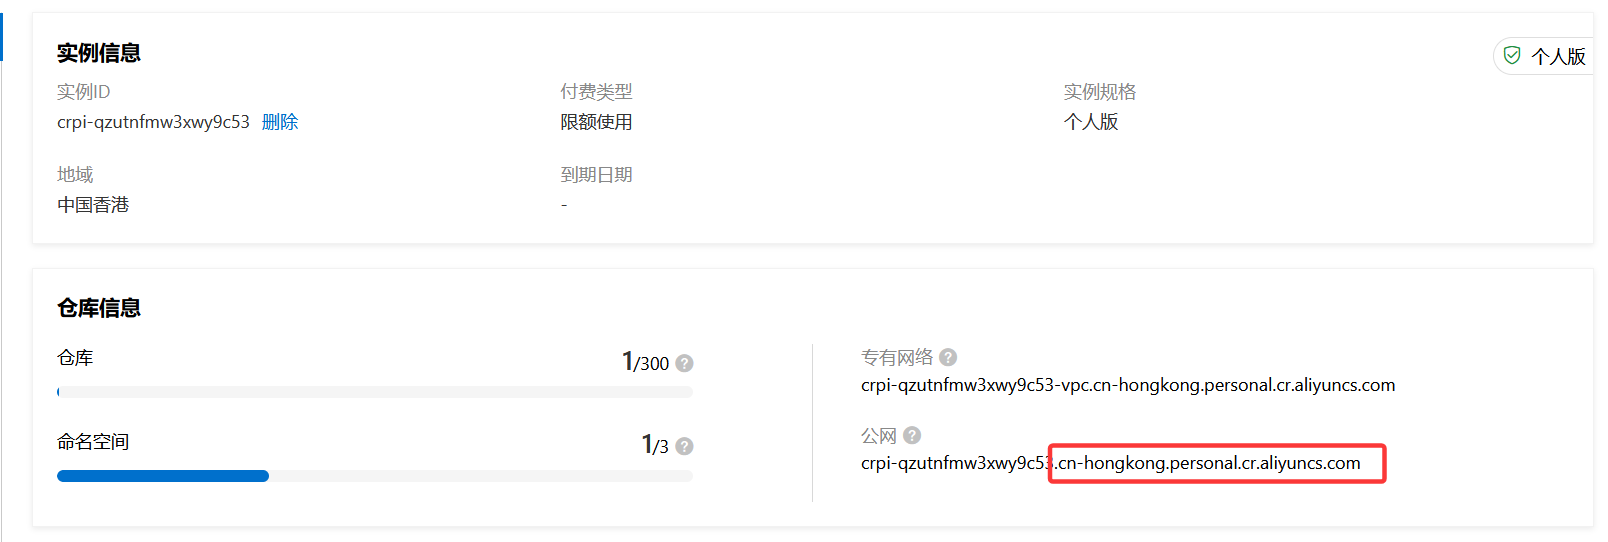
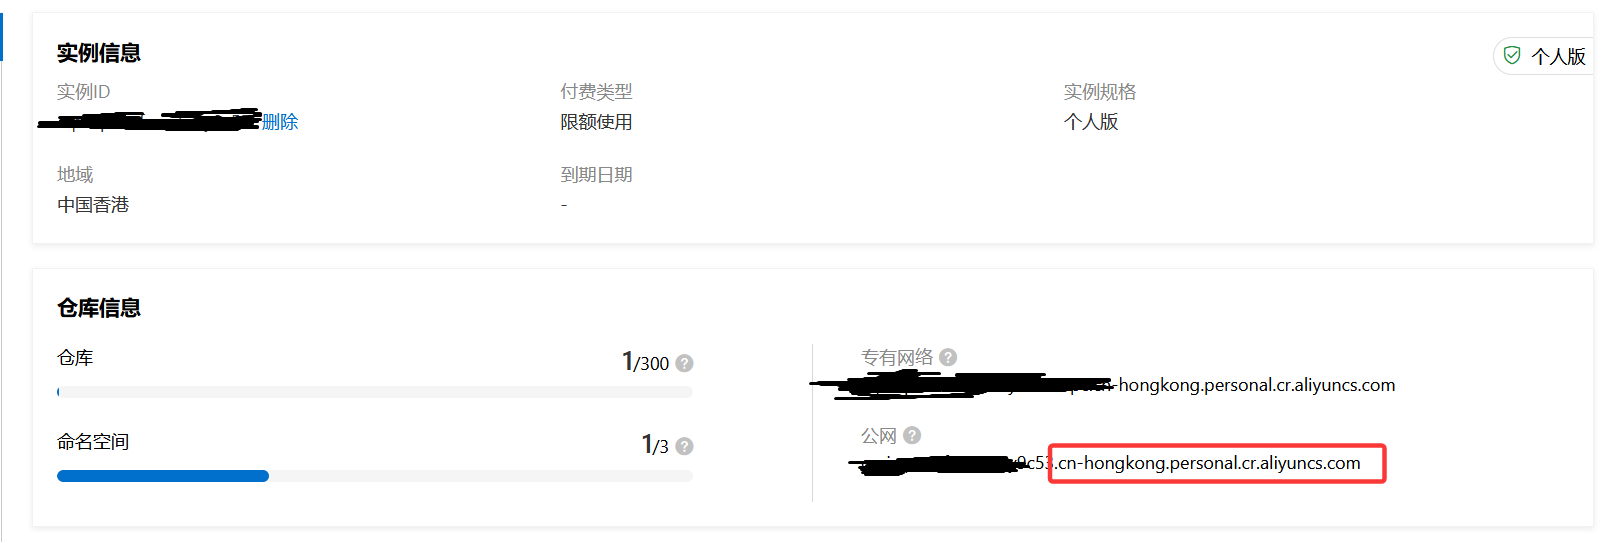
updata github cicd to ack

Changed region(s): [[0.4975, 0.679, 0.6841, 0.738], [0.0, 0.1771, 0.1866, 0.2657], [0.5286, 0.8266, 0.653, 0.8856]]

diff --git a/_posts/2025-10-13-2048demo_cicd_to_ack.md b/_posts/2025-10-13-2048demo_cicd_to_ack.md
@@ -2,7 +2,7 @@
 layout    : post
 title     : "使用Github Action cicd到阿里云ACK集群"
 date      : 2025-10-13
-lastupdate: 2025-10-13
+lastupdate: 2025-10-14
 categories: k8s 
 ---
 # 项目介绍
@@ -244,7 +244,7 @@ SVC_TYPE=NodePort
 - NAMESPACE: 名称空间我这里的值是`github-demo2048`  
 ![ci](/assets/img/github-cicd-to-ack/github-ci-23.png)  
 - IMAGE： 名称空间下的仓库命令我这里的是是`demo2048`
-- INSTANCE_ID： 示例ID我这里的ID是`crpi-qzutnfmw3xwy9c53`  
+- INSTANCE_ID： 示例ID我这里的ID是`crpi-*************`  
 ![ci](/assets/img/github-cicd-to-ack/github-ci-21.png)  
 - DOCKER_NAMESPACE: 不考虑，因为我们不推送到docker hub仓库，值默认即可
 - DOCKER_REGISTRY_NAME: 不考虑，同理，默认
@@ -261,7 +261,7 @@ REGION_ID=cn-hongkong
 REGISTRY=cn-hongkong.personal.cr.aliyuncs.com
 NAMESPACE=github-demo2048
 IMAGE=demo2048
-INSTANCE_ID=crpi-qzutnfmw3xwy9c53
+INSTANCE_ID=crpi-**************
 
    # Docker Hub config (If you want to use this configuration, you need to modify the value of "PUSH_REGISTRY_KIND")
 DOCKER_NAMESPACE=NULL  #Your Docker Hub ID
